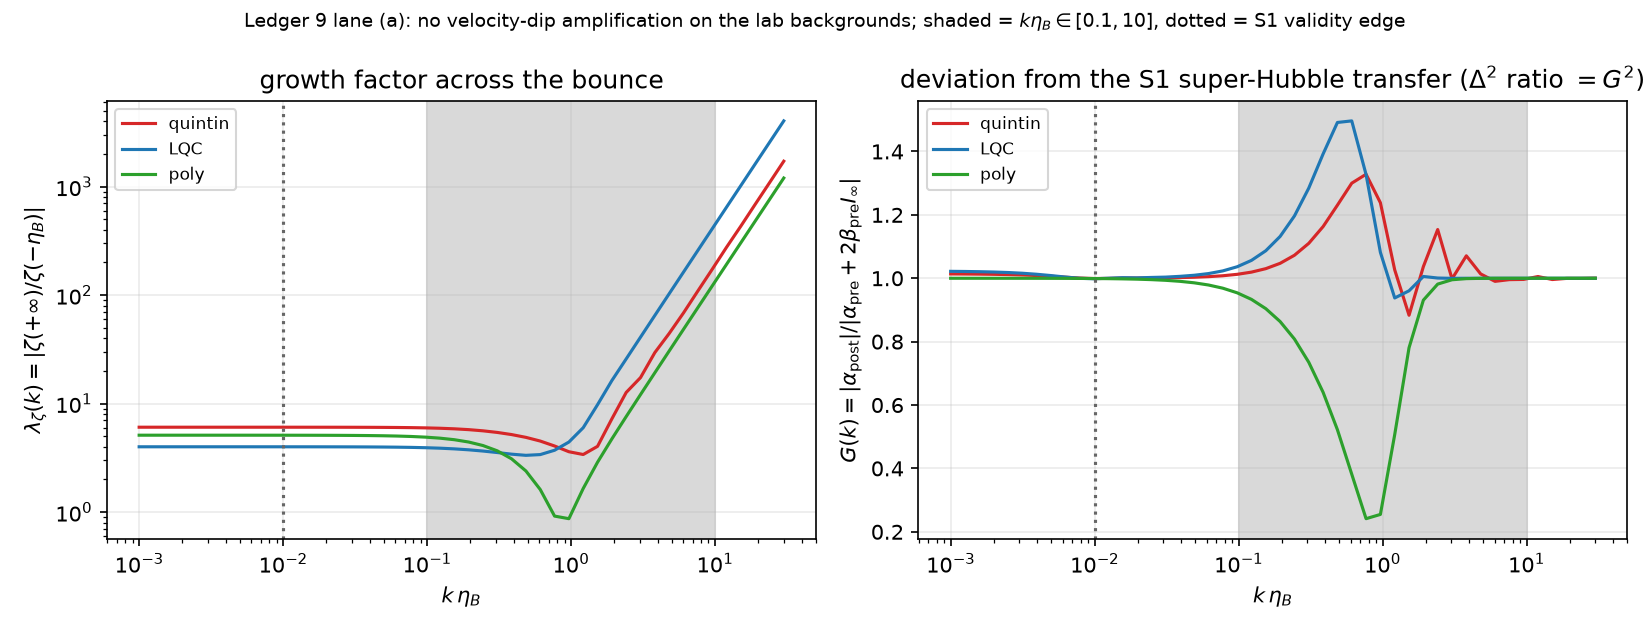
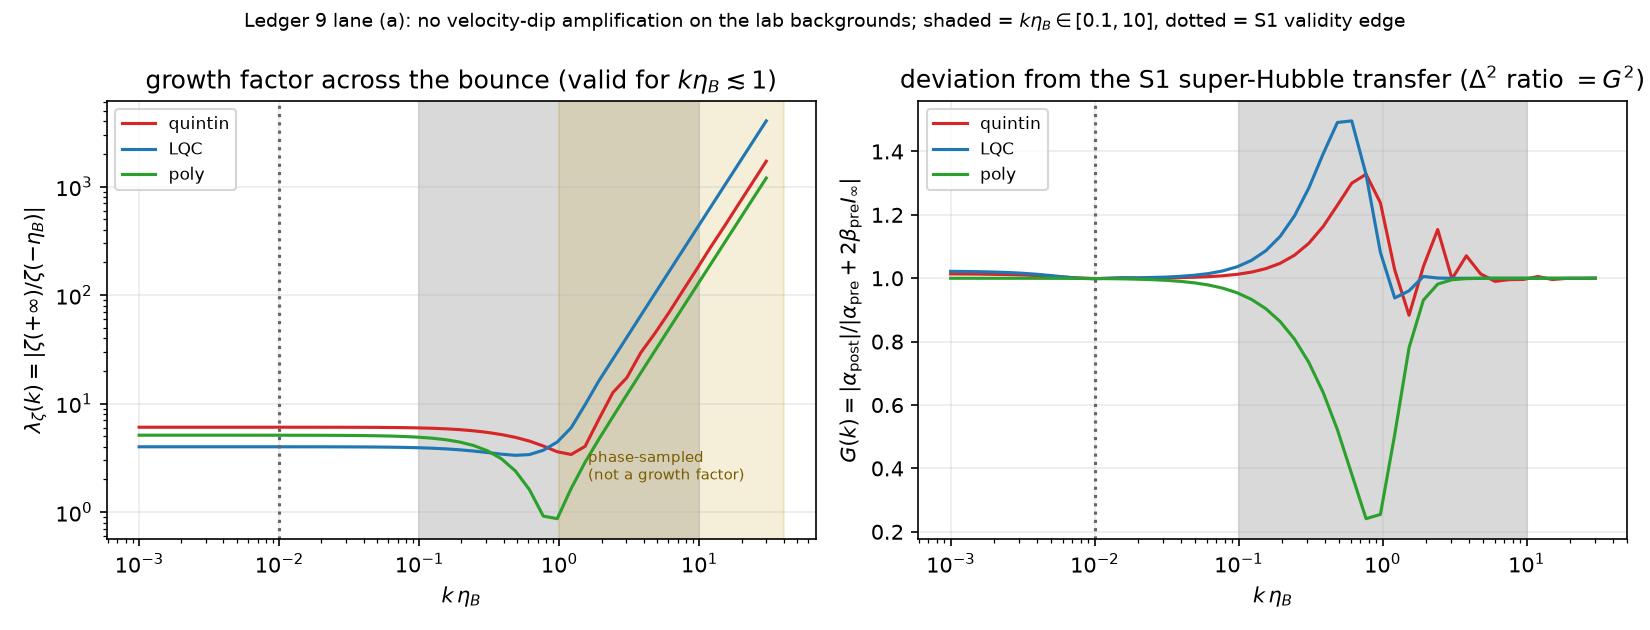
chore(ledger9-a): mark the phase-sampled kEtaB>1 region on the growth panel

Changed region(s): [[0.0927, 0.0905, 0.4945, 0.9048], [0.1545, 0.8444, 0.1855, 0.9048], [0.2473, 0.8746, 0.2782, 0.9048]]

diff --git a/research/cubic_bounce_transmission/lane9a_velocity_dip/lane9a_velocity_dip.py b/research/cubic_bounce_transmission/lane9a_velocity_dip/lane9a_velocity_dip.py
@@ -220,7 +220,9 @@ def make_png(res, path):
         a_.grid(alpha=0.25)
     ax[0].set_yscale("log")
     ax[0].set_ylabel(r"$\lambda_\zeta(k)=|\zeta(+\infty)/\zeta(-\eta_B)|$")
-    ax[0].set_title("growth factor across the bounce")
+    ax[0].axvspan(1.0, 4e1, color="#c9a227", alpha=0.18, zorder=0)
+    ax[0].text(1.6, 2.0, "phase-sampled\n(not a growth factor)", fontsize=7, color="#7a5c00")
+    ax[0].set_title(r"growth factor across the bounce (valid for $k\eta_B\lesssim1$)")
     ax[1].set_ylabel(r"$G(k)=|\alpha_{\rm post}|/|\alpha_{\rm pre}+2\beta_{\rm pre}I_\infty|$")
     ax[1].set_title(r"deviation from the S1 super-Hubble transfer ($\Delta^2$ ratio $=G^2$)")
     fig.suptitle("Ledger 9 lane (a): no velocity-dip amplification on the lab backgrounds; "
